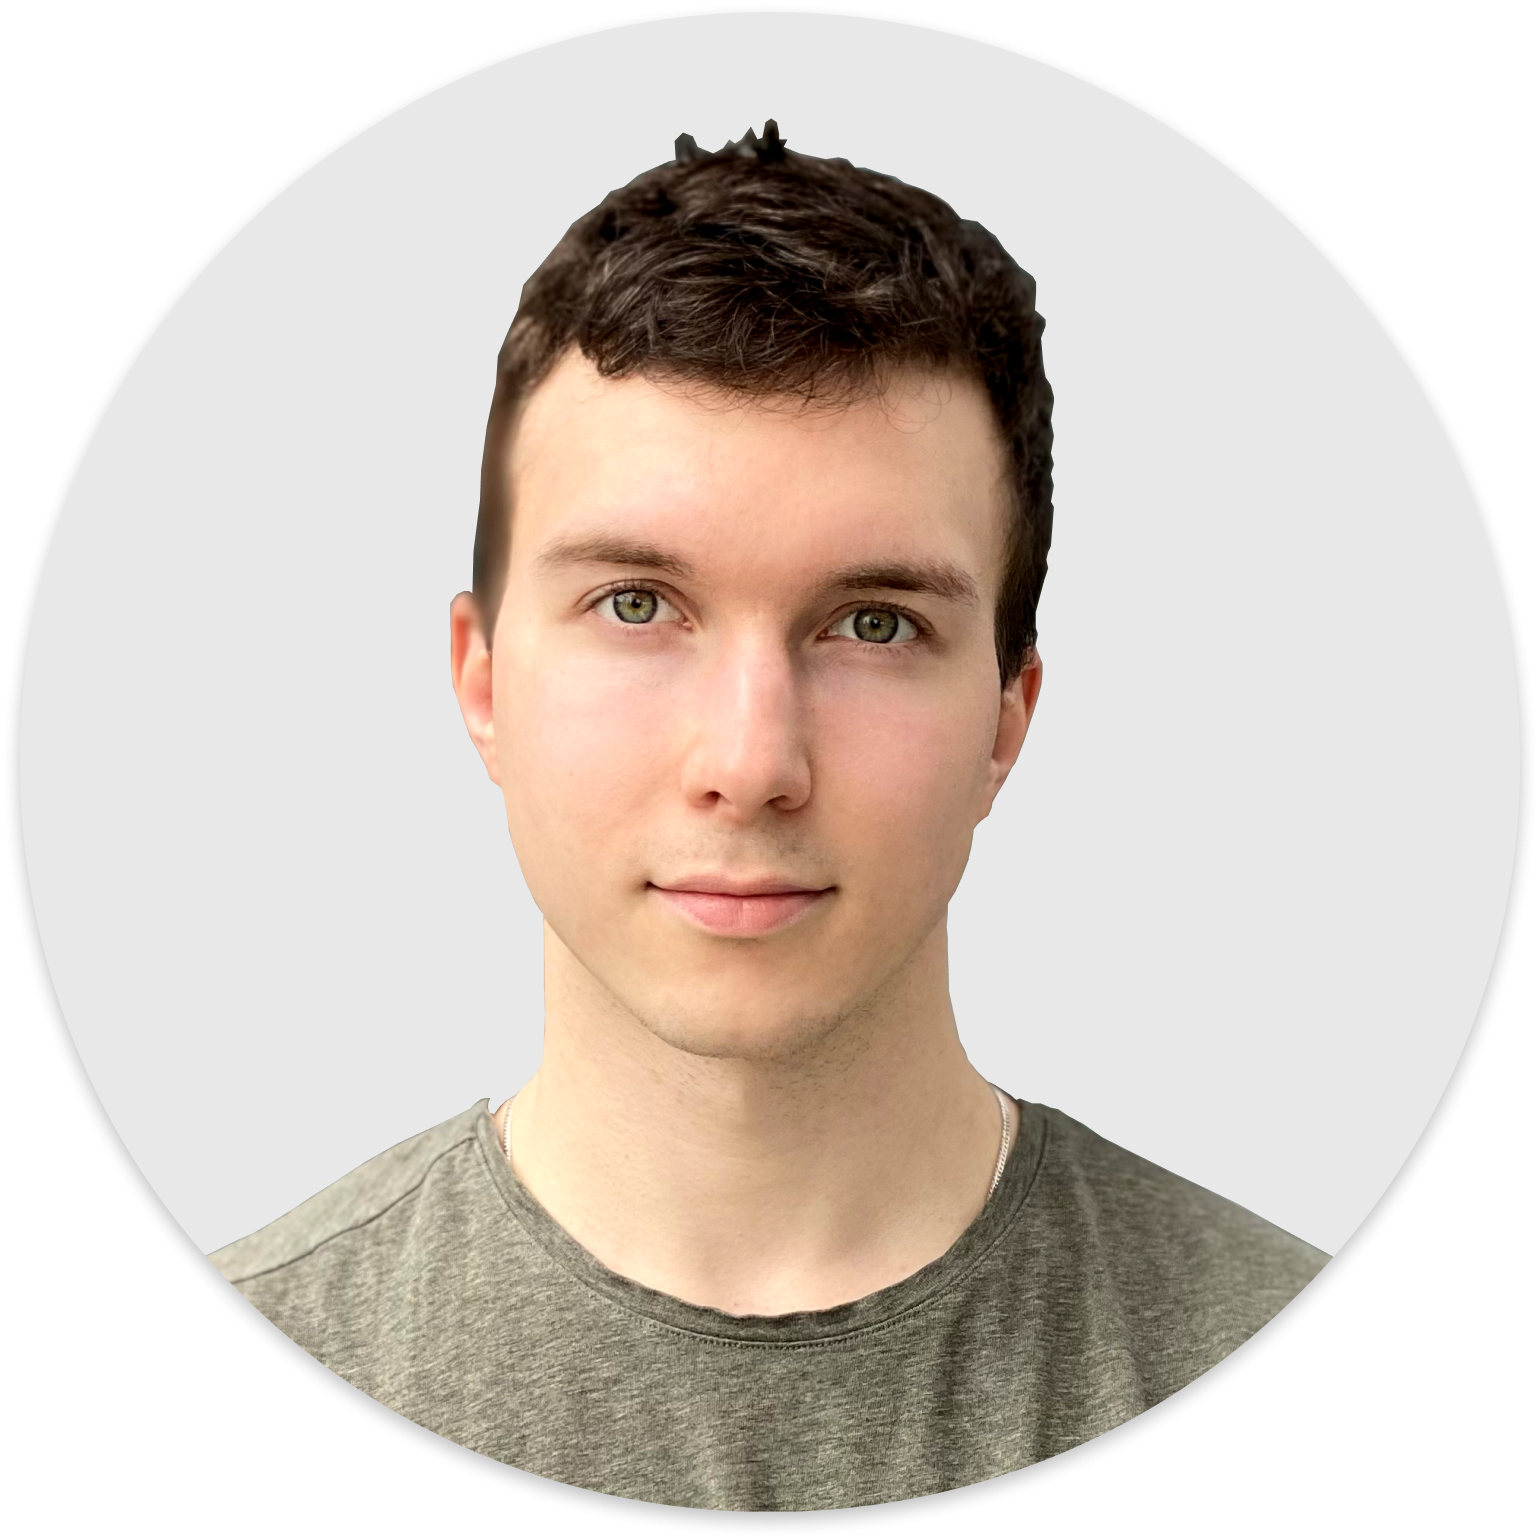
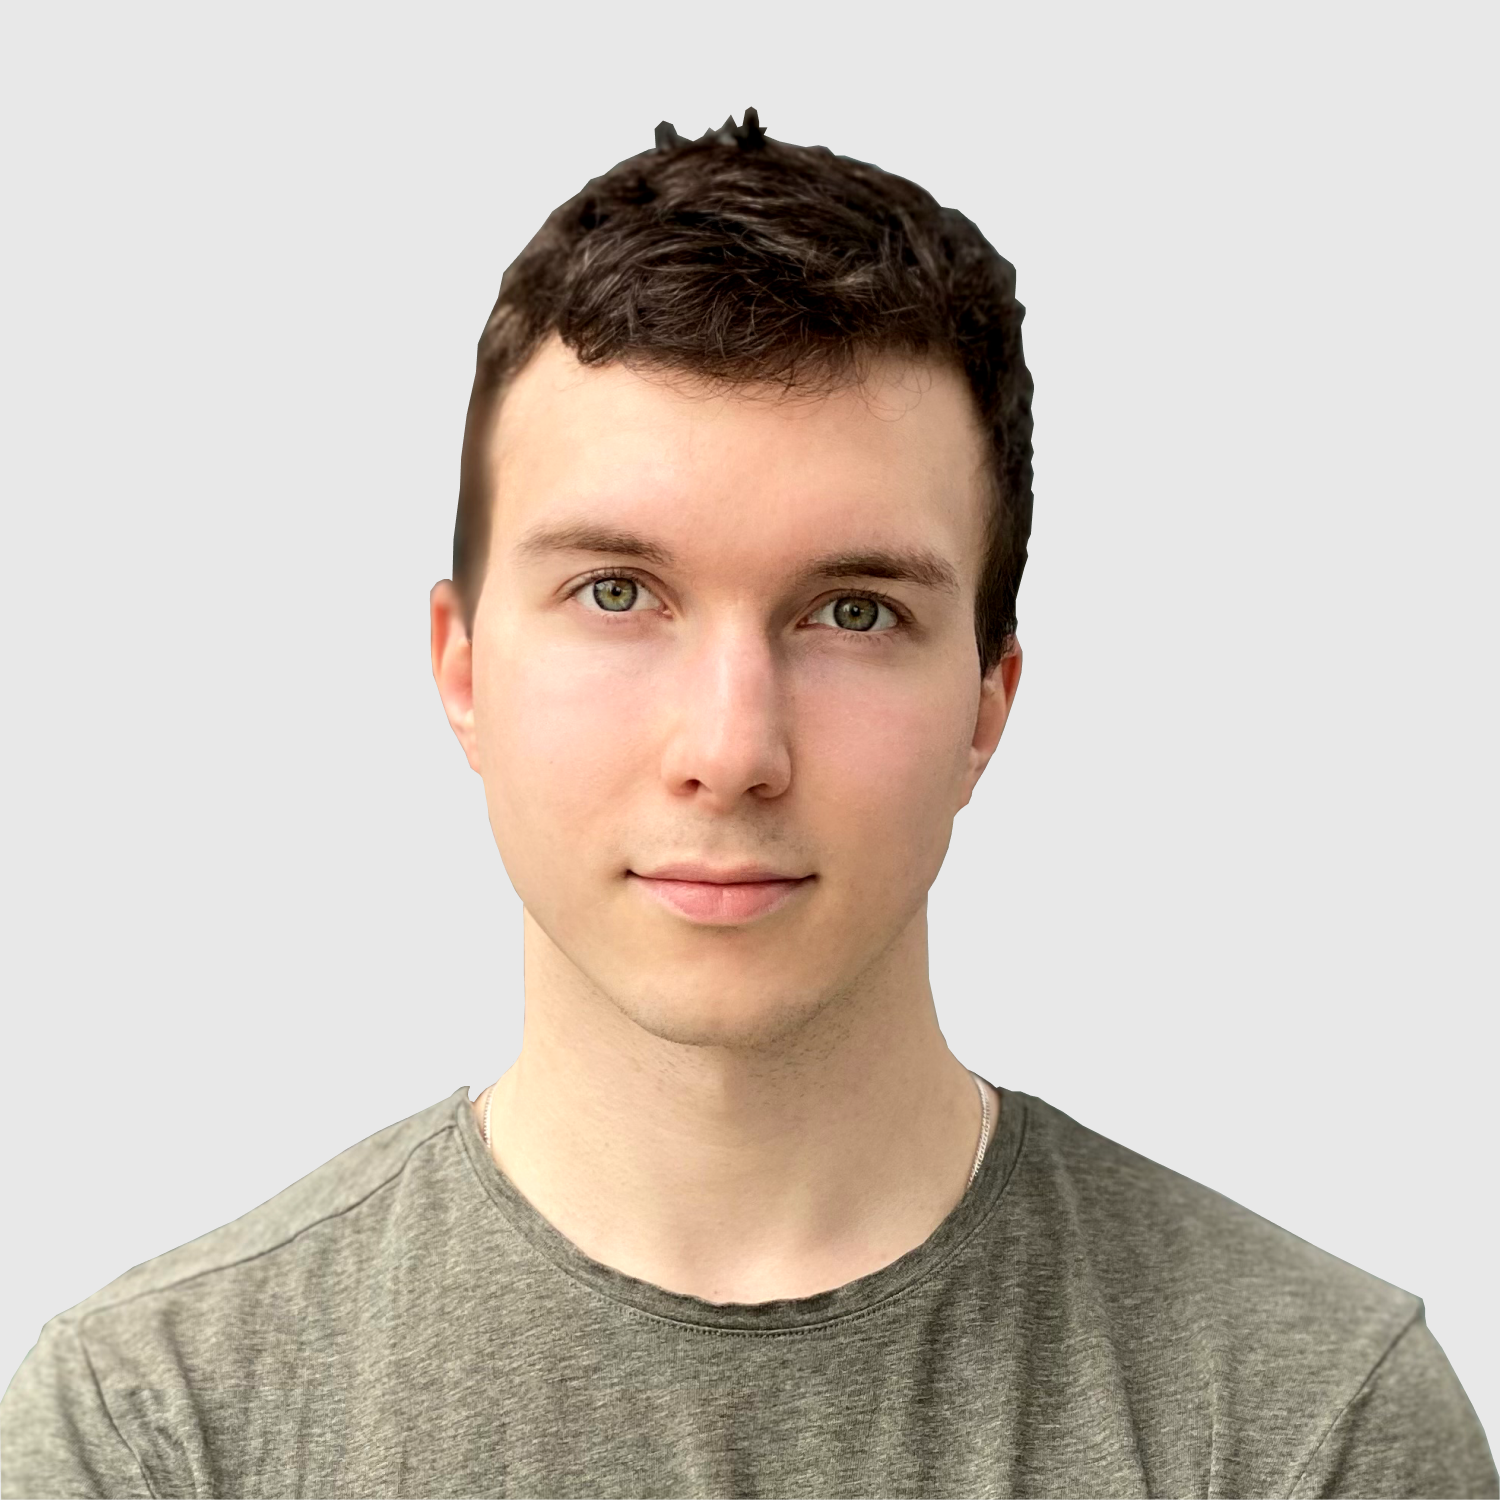
Updated profile image

diff --git a/components/About.tsx b/components/About.tsx
@@ -9,15 +9,16 @@ export default function About() {
 
 	return (
 		<div className={styles.about}>
-			<Image
-				src="/images/profile.png"
-				alt="Sav Sidorov"
-				width={300}
-				height={300}
-				draggable={false}
-				priority={true}
-				className={styles.profile}
-			/>
+			<div className={styles.profile}>
+				<Image
+					src="/images/profile.png"
+					alt="Sav Sidorov"
+					width={315}
+					height={315}
+					draggable={false}
+				/>
+			</div>
+
 			<div className={styles.content}>
 				<h1 className={styles.name}>Sav Sidorov</h1>
 				<p>

diff --git a/components/About.module.css b/components/About.module.css
@@ -10,6 +10,19 @@
 	user-select: none; /* Standard syntax */
 }
 
+.profile {
+	display: flex;
+	justify-content: center;
+	align-items: center;
+	min-width: 300px;
+	min-height: 300px;
+	max-width: 300px;
+	max-height: 300px;
+	border-radius: 50%;
+	overflow: hidden;
+	box-shadow: 0 0 10px 0 rgba(0, 0, 0, 0.2);
+}
+
 .content {
 	margin-left: 2.5rem;
 }

diff --git a/components/Book.module.css b/components/Book.module.css
@@ -11,8 +11,3 @@
 	transform: scale(1.015);
 	cursor: pointer;
 }
-
-body.modal-open {
-	overflow: hidden;
-	padding-right: 15px; /* Adjust this value to match the width of your scrollbar */
-}
